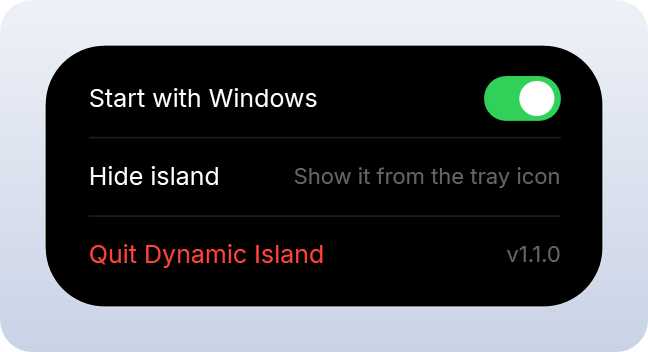
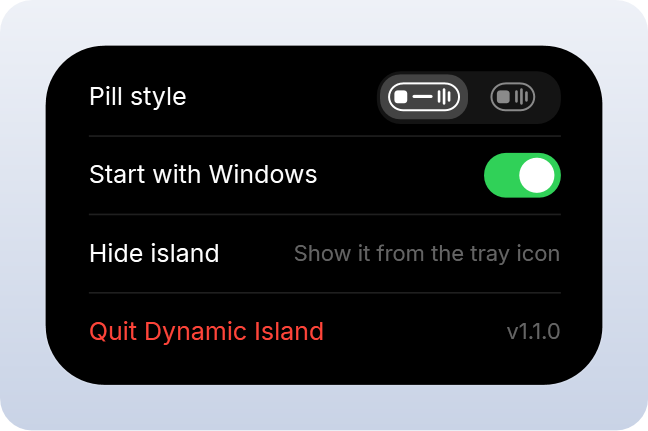
Add a minimal pill style, like the iPhone
The now-playing pill can now be full (cover, song title, visualizer) or
minimal (just the cover and the visualizer). In the minimal style a timer
shows just its ring and countdown, and the pill grows a little when a
timer runs next to the music. Choose it in the island's menu (two small
drawings of the pills) or the tray menu; the choice is saved.

diff --git a/MainWindow.xaml b/MainWindow.xaml
@@ -797,6 +797,43 @@
                     </Grid.RenderTransform>
 
                     <StackPanel Margin="8" VerticalAlignment="Center">
+                        <!--
+                            Pill style: cover, title and visualizer, or, like the iPhone, just the cover and the visualizer.
+                            Each choice is a small drawing of that pill. The thumb slides to the chosen one.
+                        -->
+                        <Grid Height="38" Margin="14,0">
+                            <TextBlock VerticalAlignment="Center" Text="Pill style"/>
+                            <Border HorizontalAlignment="Right" VerticalAlignment="Center" Padding="2" CornerRadius="12"
+                                    Background="{StaticResource TabTrackBrush}">
+                                <Grid>
+                                    <Border Width="44" Height="22" HorizontalAlignment="Left" CornerRadius="10" Background="{StaticResource TabThumbBrush}">
+                                        <Border.RenderTransform>
+                                            <TranslateTransform x:Name="PillStyleThumbOffset"/>
+                                        </Border.RenderTransform>
+                                    </Border>
+                                    <StackPanel Orientation="Horizontal">
+                                        <Button x:Name="FullPillButton" Style="{StaticResource TabButton}" Width="44" Height="22" Click="OnPillStyleClick"
+                                                AutomationProperties.Name="Cover, title and visualizer">
+                                            <Canvas Width="36" Height="14">
+                                                <Rectangle Width="36" Height="14" RadiusX="7" RadiusY="7" Stroke="White" StrokeThickness="1"/>
+                                                <Rectangle Canvas.Left="3.5" Canvas.Top="4" Width="6" Height="6" RadiusX="1.5" RadiusY="1.5" Fill="White"/>
+                                                <Path Data="M 13,7 H 21.5" Style="{StaticResource StrokePath}" StrokeThickness="1.6"/>
+                                                <Path Data="M 25.5,4.5 V 9.5 M 28,3.5 V 10.5 M 30.5,5 V 9" Style="{StaticResource StrokePath}" StrokeThickness="1.3"/>
+                                            </Canvas>
+                                        </Button>
+                                        <Button x:Name="MinimalPillButton" Style="{StaticResource TabButton}" Width="44" Height="22" Click="OnPillStyleClick"
+                                                AutomationProperties.Name="Cover and visualizer">
+                                            <Canvas Width="22" Height="14">
+                                                <Rectangle Width="22" Height="14" RadiusX="7" RadiusY="7" Stroke="White" StrokeThickness="1"/>
+                                                <Rectangle Canvas.Left="3.5" Canvas.Top="4" Width="6" Height="6" RadiusX="1.5" RadiusY="1.5" Fill="White"/>
+                                                <Path Data="M 13,4.5 V 9.5 M 15.5,3.5 V 10.5 M 18,5 V 9" Style="{StaticResource StrokePath}" StrokeThickness="1.3"/>
+                                            </Canvas>
+                                        </Button>
+                                    </StackPanel>
+                                </Grid>
+                            </Border>
+                        </Grid>
+                        <Rectangle Height="1" Margin="14,0" Fill="{StaticResource SeparatorBrush}"/>
                         <Button Style="{StaticResource MenuRow}" Click="OnStartupToggleClick">
                             <Grid>
                                 <TextBlock VerticalAlignment="Center" Text="Start with Windows"/>

diff --git a/MainWindow.PillStyle.cs b/MainWindow.PillStyle.cs
@@ -1,0 +1,57 @@
+using System.Windows;
+using System.Windows.Media;
+using System.Windows.Media.Animation;
+
+namespace DynamicIsland;
+
+/// <summary>
+/// The pill style, chosen in the island's menu or the tray icon's. The full pill shows the cover, the song title
+/// and the visualizer; the minimal one, like the iPhone, just the cover and the visualizer (and a timer just its
+/// ring and countdown), so the island stays small. The choice is saved with the rest of the state.
+/// </summary>
+public partial class MainWindow
+{
+    private bool _minimalPill;
+
+    private void OnPillStyleClick(object sender, RoutedEventArgs e) => SetMinimalPill(sender == MinimalPillButton);
+
+    private void SetMinimalPill(bool minimal)
+    {
+        if (_minimalPill == minimal)
+            return;
+        _minimalPill = minimal;
+        ApplyPillStyle();
+        SaveState();
+    }
+
+    /// <summary>Lays out the pills for the current style, and for a timer running next to the music.</summary>
+    private void ApplyPillStyle()
+    {
+        bool minimal = _minimalPill;
+        CompactTitle.Visibility = minimal ? Visibility.Collapsed : Visibility.Visible;
+        CompactTimerLabel.Visibility = minimal ? Visibility.Collapsed : Visibility.Visible;
+        CompactEqualizer.Margin = new Thickness(0, 0, minimal ? 10 : 14, 0);
+
+        double mediaWidth = !minimal ? IslandConfig.CompactWidth
+                          : _timer.IsActive ? IslandConfig.MinimalMediaTimerWidth
+                          : IslandConfig.MinimalMediaWidth;
+        double timerWidth = minimal ? IslandConfig.MinimalTimerWidth : IslandConfig.CompactTimerWidth;
+        bool resize = (_activeView == CompactMediaView && CompactMediaView.Width != mediaWidth)
+                   || (_activeView == CompactTimerView && CompactTimerView.Width != timerWidth);
+        CompactMediaView.Width = mediaWidth;
+        CompactTimerView.Width = timerWidth;
+
+        // In the menu, the thumb slides under the chosen drawing, which is shown at full strength.
+        PillStyleThumbOffset.BeginAnimation(TranslateTransform.XProperty,
+            new DoubleAnimation(minimal ? FullPillButton.Width : 0, SlideDuration) { EasingFunction = SpringCurve });
+        (minimal ? MinimalPillButton : FullPillButton).Opacity = 1;
+        (minimal ? FullPillButton : MinimalPillButton).ClearValue(OpacityProperty);
+
+        if (resize && _activeView is not null)
+        {
+            // The pill is on screen (say, a timer just started next to the music): spring to its new width.
+            Island.BeginAnimation(WidthProperty, new DoubleAnimation(_activeView.Width, MorphDuration) { EasingFunction = SpringCurve });
+            UpdateMakeWay();
+        }
+    }
+}

diff --git a/MainWindow.Tray.cs b/MainWindow.Tray.cs
@@ -81,7 +81,7 @@ public partial class MainWindow
     /// <summary>The tray icon's menu: a standard Windows menu, like every other notification-area icon has.</summary>
     private void ShowTrayMenu()
     {
-        const int ShowHideItem = 1, StartupItem = 2, QuitItem = 3;
+        const int ShowHideItem = 1, FullPillItem = 2, MinimalPillItem = 3, StartupItem = 4, QuitItem = 5;
 
         IntPtr menu = NativeMethods.CreatePopupMenu();
         if (menu == IntPtr.Zero)
@@ -89,6 +89,10 @@ public partial class MainWindow
         try
         {
             NativeMethods.AppendMenu(menu, NativeMethods.MF_STRING, ShowHideItem, _hiddenByUser ? "Show Dynamic Island" : "Hide Dynamic Island");
+            NativeMethods.AppendMenu(menu, NativeMethods.MF_SEPARATOR, 0, null);
+            NativeMethods.AppendMenu(menu, NativeMethods.MF_STRING | (_minimalPill ? 0 : NativeMethods.MF_CHECKED), FullPillItem, "Pill: cover, title and visualizer");
+            NativeMethods.AppendMenu(menu, NativeMethods.MF_STRING | (_minimalPill ? NativeMethods.MF_CHECKED : 0), MinimalPillItem, "Pill: cover and visualizer");
+            NativeMethods.AppendMenu(menu, NativeMethods.MF_SEPARATOR, 0, null);
             NativeMethods.AppendMenu(menu, NativeMethods.MF_STRING | (StartupManager.IsEnabled ? NativeMethods.MF_CHECKED : 0), StartupItem, "Start with Windows");
             NativeMethods.AppendMenu(menu, NativeMethods.MF_SEPARATOR, 0, null);
             NativeMethods.AppendMenu(menu, NativeMethods.MF_STRING, QuitItem, "Quit Dynamic Island");
@@ -105,6 +109,10 @@ public partial class MainWindow
             {
                 case ShowHideItem:
                     SetHiddenByUser(!_hiddenByUser);
+                    break;
+                case FullPillItem:
+                case MinimalPillItem:
+                    SetMinimalPill(command == MinimalPillItem);
                     break;
                 case StartupItem:
                     SetStartWithWindows(!StartupManager.IsEnabled);

diff --git a/IslandConfig.cs b/IslandConfig.cs
@@ -17,8 +17,16 @@ public static class IslandConfig
     public const double CompactWidth = 300;
     public const double CompactHeight = 36;
 
-    /// <summary>The pill of a running timer when no music is playing: just a progress ring and the countdown.</summary>
+    /// <summary>The pill of a running timer when no music is playing: a progress ring, "Timer" and the countdown.</summary>
     public const double CompactTimerWidth = 236;
+
+    /// <summary>
+    /// The minimal pill style (chosen in the island's menu), like the iPhone: now playing shows just the cover and
+    /// the visualizer, and a timer just its ring and countdown.
+    /// </summary>
+    public const double MinimalMediaWidth = 96;
+    public const double MinimalMediaTimerWidth = 136; // cover, then the timer's ring and countdown
+    public const double MinimalTimerWidth = 112;
 
     /// <summary>The card shown on hover or click. All its pages share this width and one header (clock, page tabs, battery).</summary>
     public const double ExpandedWidth = 420;
@@ -41,7 +49,7 @@ public static class IslandConfig
 
     /// <summary>The menu you get with a right-click.</summary>
     public const double MenuWidth = 280;
-    public const double MenuHeight = 132;
+    public const double MenuHeight = 171;
 
     /// <summary>The pills and the dot are fully round; bigger shapes' corners stop growing at this radius.</summary>
     public const double MaxCornerRadius = 30;

diff --git a/MainWindow.xaml.cs b/MainWindow.xaml.cs
@@ -132,8 +132,9 @@ public partial class MainWindow : Window
 
         // What the island remembers between runs: the to-do list and a running timer.
         SavedState saved = StateStore.Load();
+        _minimalPill = saved.MinimalPill;
         InitializeTodos(saved);
-        InitializeTimer(saved);
+        InitializeTimer(saved); // also lays out the pills for the saved style
         _startMenuShortcutCreated = saved.StartMenuShortcutCreated;
         InitializePointer();
         Version? version = typeof(MainWindow).Assembly.GetName().Version;
@@ -302,6 +303,7 @@ public partial class MainWindow : Window
         Todos = _todos.Select(todo => new SavedTodo(todo.Text, todo.IsDone)).ToList(),
         Timer = _timer.Save(),
         LastTimerMinutes = _timerMinutes,
+        MinimalPill = _minimalPill,
         StartMenuShortcutCreated = _startMenuShortcutCreated,
     });
 

diff --git a/MainWindow.Timer.cs b/MainWindow.Timer.cs
@@ -194,9 +194,10 @@ public partial class MainWindow
         TimerPauseButton.Background = (Brush)FindResource(paused ? "GreenTintBrush" : "OrangeTintBrush");
         TimerPauseButton.Foreground = paused ? _greenBrush : _orangeBrush;
 
-        // Next to music, the countdown takes the equalizer's place in the pill.
+        // Next to music, the countdown takes the equalizer's place in the pill (a minimal pill grows a little for it).
         CompactMediaTimer.Visibility = _timer.IsActive ? Visibility.Visible : Visibility.Collapsed;
         CompactEqualizer.Visibility = _timer.IsActive ? Visibility.Collapsed : Visibility.Visible;
+        ApplyPillStyle();
 
         // A running timer tints its tab, so you can see it from the other pages.
         TimerTabIcon.Stroke = _timer.IsActive ? _orangeBrush : Brushes.White;

diff --git a/Services/StateStore.cs b/Services/StateStore.cs
@@ -12,6 +12,9 @@ public sealed class SavedState
     public SavedTimer? Timer { get; set; }
     public int LastTimerMinutes { get; set; } = 5;
 
+    /// <summary>The pill shows just the cover and the visualizer (no song title), like the iPhone.</summary>
+    public bool MinimalPill { get; set; }
+
     /// <summary>The Start menu entry was made once; if you delete it, it stays deleted.</summary>
     public bool StartMenuShortcutCreated { get; set; }
 }

diff --git a/README.md b/README.md
@@ -36,12 +36,30 @@ The island sits at the top center of your main screen and changes shape dependin
   </tr>
 </table>
 
+### Full or minimal pill
+
+Pick the pill style in the island's menu (or the tray icon's). The full pill shows the cover, the song title
+and the visualizer. The minimal one, like the iPhone, shows just the cover and the visualizer, and a timer just
+its ring and countdown, so the island stays small.
+
+<table>
+  <tr>
+    <td align="center"><img src="docs/screenshots/compact.png" width="344" alt="Full now-playing pill"><br><sub>Full</sub></td>
+    <td align="center"><img src="docs/screenshots/compact-minimal.png" width="140" alt="Minimal now-playing pill"><br><sub>Minimal</sub></td>
+  </tr>
+  <tr>
+    <td align="center"><img src="docs/screenshots/media-timer-pill.png" width="344" alt="Full pill with a timer"><br><sub>Full, with a timer</sub></td>
+    <td align="center"><img src="docs/screenshots/media-timer-pill-minimal.png" width="180" alt="Minimal pill with a timer"><br><sub>Minimal, with a timer</sub></td>
+  </tr>
+</table>
+
 ## Features
 
 - **Now playing, for any app.** Spotify, YouTube in your browser, and any other player that shows up in the
   Windows media controls (the media card you see when you press a volume key). You get album art, title,
   artist, progress and ⏮ ⏯ ⏭, plus an equalizer tinted with the album's colour. When several apps play,
-  Spotify wins; you can also limit it to Spotify only.
+  Spotify wins; you can also limit it to Spotify only. The pill can be full (cover, title, visualizer) or
+  minimal (cover and visualizer), as you like.
 - **Timer.** Pick a length and press Start. The countdown stays in the island, next to the song that's playing,
   and keeps going through sleep and restarts. When it's done, the island says so and plays a sound, even over a
   fullscreen app.
@@ -162,7 +180,7 @@ dotnet publish -c Release -r win-x64 --self-contained true -p:PublishSingleFile=
 | Tap it (touch screens) | It opens |
 | Click the tabs at the top | Switch between Now playing, Timer and To-do |
 | Click the album art | Brings Spotify to the front |
-| Right-click the open island | Menu: **Start with Windows** switch · **Hide island** · **Quit Dynamic Island** |
+| Right-click the open island | Menu: **Pill style** (full or minimal) · **Start with Windows** · **Hide island** · **Quit Dynamic Island** |
 | Click the tray icon, next to the clock | Hide or show the island. Right-click it for the same options |
 
 <img src="docs/screenshots/menu.png" width="280" alt="The right-click menu">
@@ -186,7 +204,7 @@ Every setting lives in [`IslandConfig.cs`](IslandConfig.cs). Change a value and 
 
 | Setting | Default | What it does |
 |---|---|---|
-| `DotSize`, `CompactWidth/Height`, `ExpandedWidth`, `…Height` | 14 · 300×36 · 420 · … | Size of each state, in DIPs |
+| `DotSize`, `CompactWidth/Height`, `Minimal…Width`, `ExpandedWidth`, `…Height` | 14 · 300×36 · 96 · 420 · … | Size of each state, in DIPs |
 | `TopMargin` | 6 | Gap between the top of the screen and the island |
 | `HoverPadding` | 8 | Invisible margin around the island that makes the small dot easy to reach. Set to `0` so only the visible shape counts |
 | `ClickThroughWhenCollapsed` | `true` | Clicks go through the small island to the window underneath, and it opens when the pointer rests on it. `false` = the classic behaviour: the island catches clicks, and hovering or clicking opens it |
@@ -247,6 +265,7 @@ Measured on Windows 11 at 125 % scaling:
 ├─ MainWindow.Timer.cs        timer page, countdown pill and "Timer done" alert
 ├─ MainWindow.Todos.cs        to-do page, and typing into the island
 ├─ MainWindow.Pointer.cs      making way: click-through and see-through, rest to open
+├─ MainWindow.PillStyle.cs    full or minimal pill
 ├─ MainWindow.Tray.cs         hiding and showing, the tray icon, starting it again, the Start menu entry
 ├─ IslandConfig.cs            all settings
 ├─ Services/                  Media · AudioVolume · Power · Weather · CountdownTimer · StateStore · TodoItem ·
